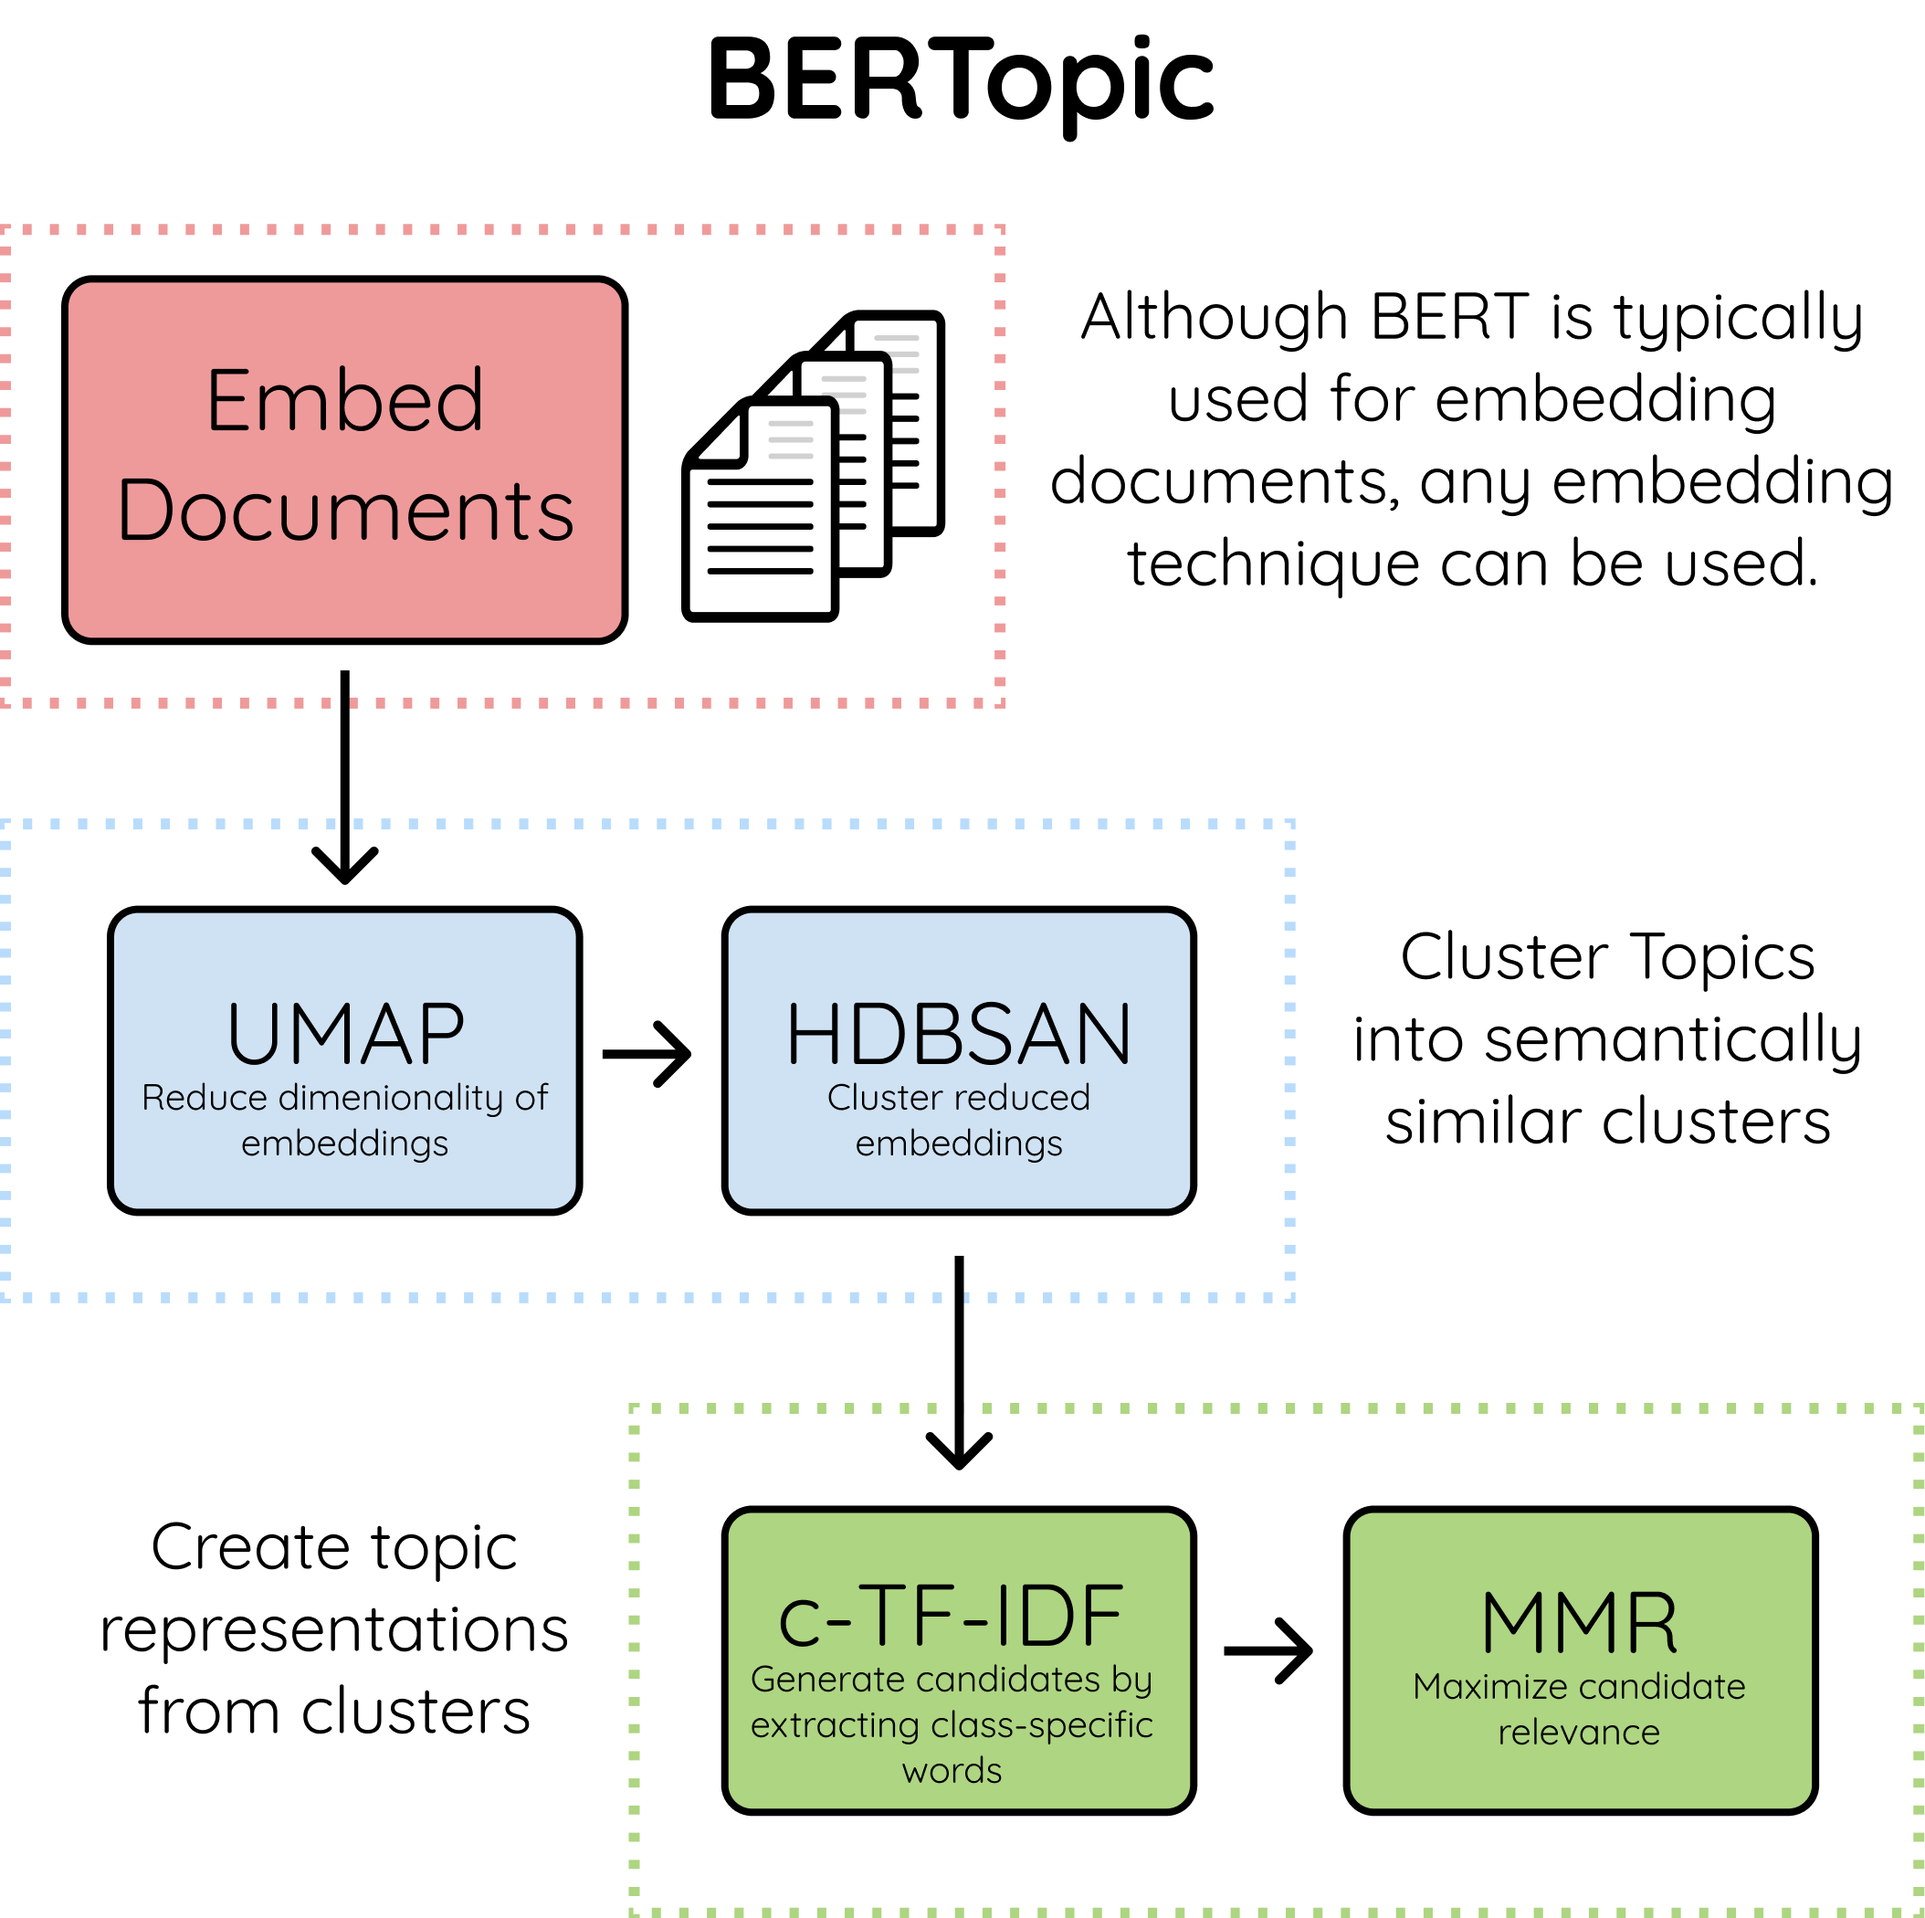
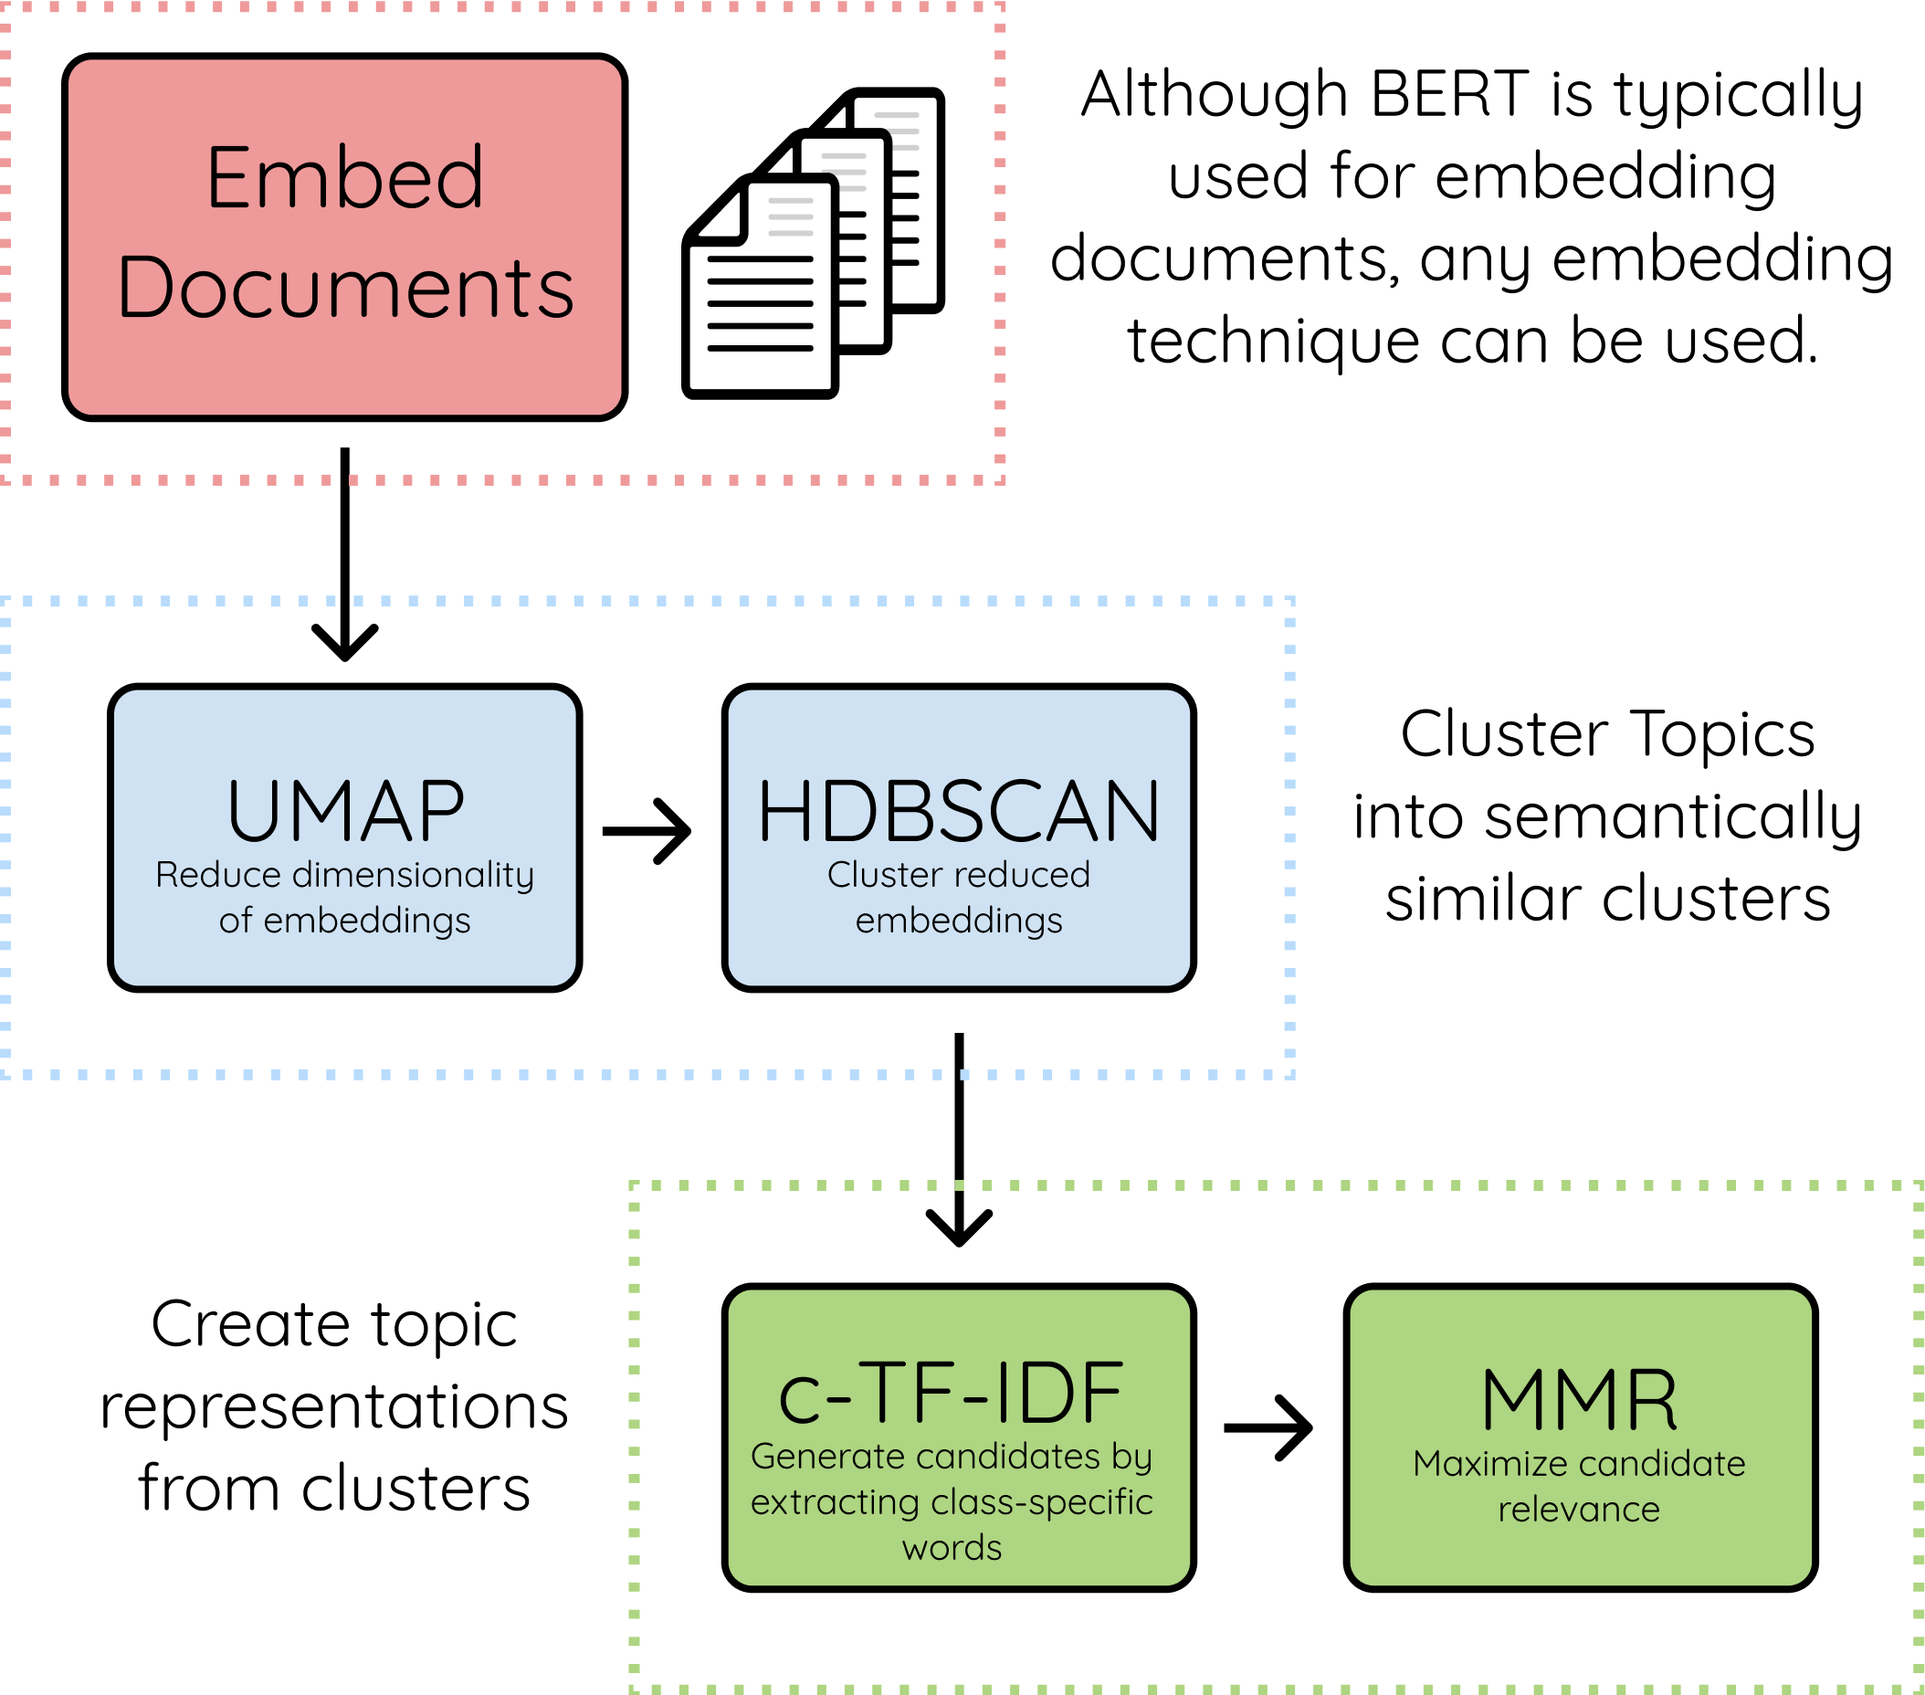
Fix algorithm image, update documentation, fix spelling, etc.

diff --git a/bertopic/_bertopic.py b/bertopic/_bertopic.py
@@ -933,13 +933,13 @@ class BERTopic:
         all topics simply run:
 
         ```python
-        topic_model.visualize_word_rank()
+        topic_model.visualize_term_rank()
         ```
 
         Or if you want to save the resulting figure:
 
         ```python
-        fig = topic_model.visualize_word_rank()
+        fig = topic_model.visualize_term_rank()
         fig.write_html("path/to/file.html")
         ```
 

diff --git a/bertopic/plotting/_term_rank.py b/bertopic/plotting/_term_rank.py
@@ -32,13 +32,13 @@ def visualize_term_rank(topic_model,
     all topics simply run:
 
     ```python
-    topic_model.visualize_word_rank()
+    topic_model.visualize_term_rank()
     ```
 
     Or if you want to save the resulting figure:
 
     ```python
-    fig = topic_model.visualize_word_rank()
+    fig = topic_model.visualize_term_rank()
     fig.write_html("path/to/file.html")
     ```
 

diff --git a/README.md b/README.md
@@ -119,7 +119,7 @@ BERTopic supports many embedding models that can be used to embed the documents 
 * Gensim
 * USE
 
-[**Sentence-Transformers**]() is typically used as it has shown great results embedding documents 
+[**Sentence-Transformers**](https://github.com/UKPLab/sentence-transformers) is typically used as it has shown great results embedding documents 
 meant for semantic similarity. Simply select any from their documentation 
 [here](https://www.sbert.net/docs/pretrained_models.html) and pass it to BERTopic:
 
@@ -185,34 +185,35 @@ For quick access to common functions, here is an overview of BERTopic's main met
 
 | Method | Code  | 
 |-----------------------|---|
-| Fit the model    |  `BERTopic().fit(docs)` |
-| Fit the model and predict documents    |  `BERTopic().fit_transform(docs)` |
-| Predict new documents    |  `BERTopic().transform([new_doc])` |
-| Access single topic   | `BERTopic().get_topic(topic=12)`  |   
-| Access all topics     |  `BERTopic().get_topics()` |
-| Get topic freq    |  `BERTopic().get_topic_freq()` |
-| Get all topic information|  `BERTopic().get_topic_info()` |
-| Get topics per class | `BERTopic().topics_per_class(docs, topics, classes)` |
-| Dynamic Topic Modeling | `BERTopic().topics_over_time(docs, topics, timestamps)` |
-| Update topic representation | `BERTopic().update_topics(docs, topics, n_gram_range=(1, 3))` |
-| Reduce nr of topics | `BERTopic().reduce_topics(docs, topics, nr_topics=30)` |
-| Find topics | `BERTopic().find_topics("vehicle")` |
-| Save model    |  `BERTopic().save("my_model")` |
+| Fit the model    |  `.fit(docs)` |
+| Fit the model and predict documents  |  `.fit_transform(docs)` |
+| Predict new documents    |  `.transform([new_doc])` |
+| Access single topic   | `.get_topic(topic=12)`  |   
+| Access all topics     |  `.get_topics()` |
+| Get topic freq    |  `.get_topic_freq()` |
+| Get all topic information|  `.get_topic_info()` |
+| Get representative docs per topic |  `.get_representative_docs()` |
+| Get topics per class | `.topics_per_class(docs, topics, classes)` |
+| Dynamic Topic Modeling | `.topics_over_time(docs, topics, timestamps)` |
+| Update topic representation | `.update_topics(docs, topics, n_gram_range=(1, 3))` |
+| Reduce nr of topics | `.reduce_topics(docs, topics, nr_topics=30)` |
+| Find topics | `.find_topics("vehicle")` |
+| Save model    |  `.save("my_model")` |
 | Load model    |  `BERTopic.load("my_model")` |
-| Get parameters |  `BERTopic().get_params()` |
+| Get parameters |  `.get_params()` |
 
 For an overview of BERTopic's visualization methods:
 
 | Method | Code  | 
 |-----------------------|---|
-| Visualize Topics    |  `BERTopic().visualize_topics()` |
-| Visualize Topic Hierarchy    |  `BERTopic().visualize_hierarchy()` |
-| Visualize Topic Terms    |  `BERTopic().visualize_barchart()` |
-| Visualize Topic Similarity  |  `BERTopic().visualize_heatmap()` |
-| Visualize Term Score Decline  |  `BERTopic().visualize_term_rank()` |
-| Visualize Topic Probability Distribution    |  `BERTopic().visualize_distribution(probs[0])` |
-| Visualize Topics over Time   |  `BERTopic().visualize_topics_over_time(topics_over_time)` |
-| Visualize Topics per Class | `BERTopic().visualize_topics_per_class(topics_per_class)` | 
+| Visualize Topics    |  `.visualize_topics()` |
+| Visualize Topic Hierarchy    |  `.visualize_hierarchy()` |
+| Visualize Topic Terms    |  `.visualize_barchart()` |
+| Visualize Topic Similarity  |  `.visualize_heatmap()` |
+| Visualize Term Score Decline  |  `.visualize_term_rank()` |
+| Visualize Topic Probability Distribution    |  `.visualize_distribution(probs[0])` |
+| Visualize Topics over Time   |  `.visualize_topics_over_time(topics_over_time)` |
+| Visualize Topics per Class | `.visualize_topics_per_class(topics_per_class)` | 
 
 ## Citation
 To cite BERTopic in your work, please use the following bibtex reference:
@@ -223,7 +224,7 @@ To cite BERTopic in your work, please use the following bibtex reference:
   title        = {BERTopic: Leveraging BERT and c-TF-IDF to create easily interpretable topics.},
   year         = 2020,
   publisher    = {Zenodo},
-  version      = {v0.7.0},
+  version      = {v0.9.2},
   doi          = {10.5281/zenodo.4381785},
   url          = {https://doi.org/10.5281/zenodo.4381785}
 }

diff --git a/docs/tutorial/embeddings/embeddings.md b/docs/tutorial/embeddings/embeddings.md
@@ -51,9 +51,6 @@ topic_model = BERTopic(embedding_model=document_glove_embeddings)
 [Spacy](https://github.com/explosion/spaCy) is an amazing framework for processing text. There are 
 many models available across many languages for modeling text. 
  
- allows you to choose almost any embedding model that 
-is publicly available. Flair can be used as follows:
-
 To use Spacy's non-transformer models in BERTopic:
 
 ```python
